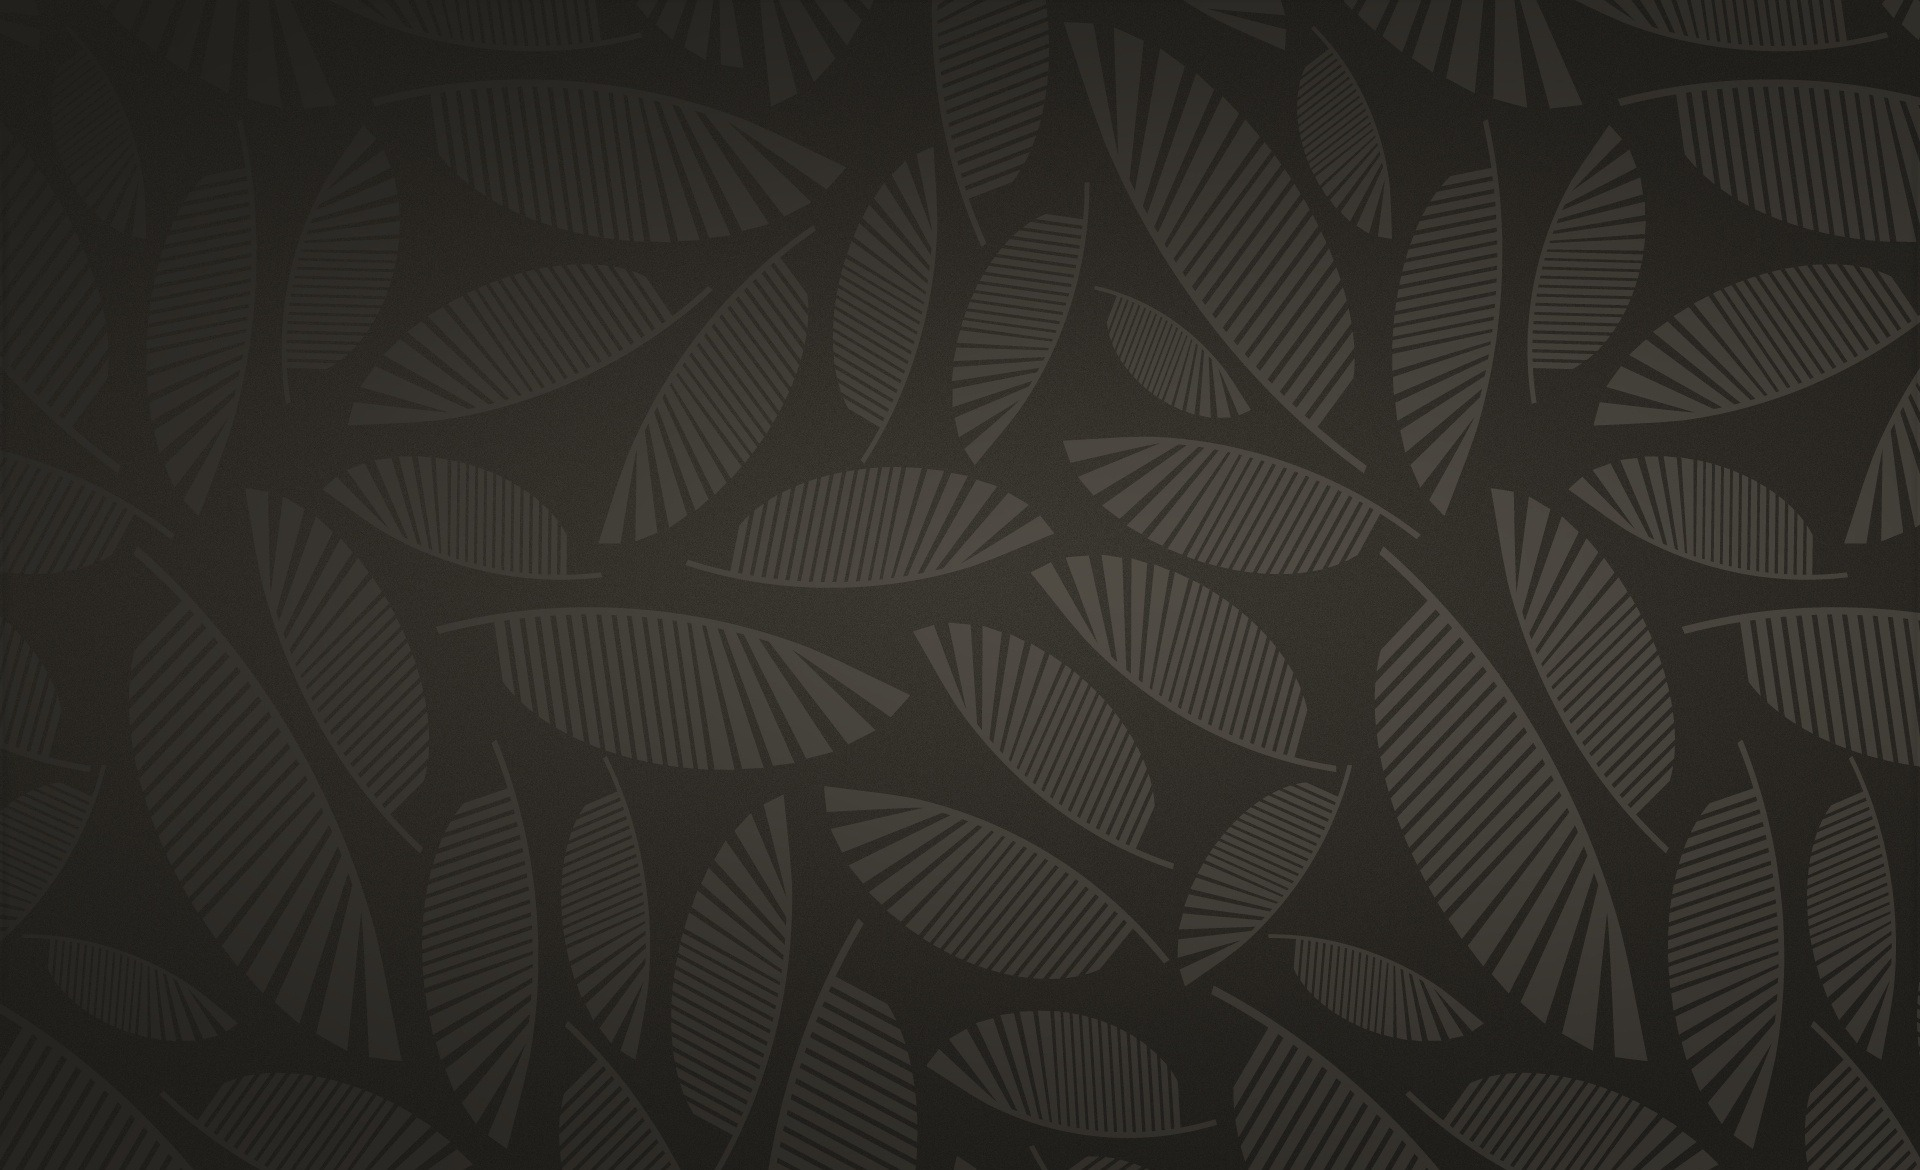
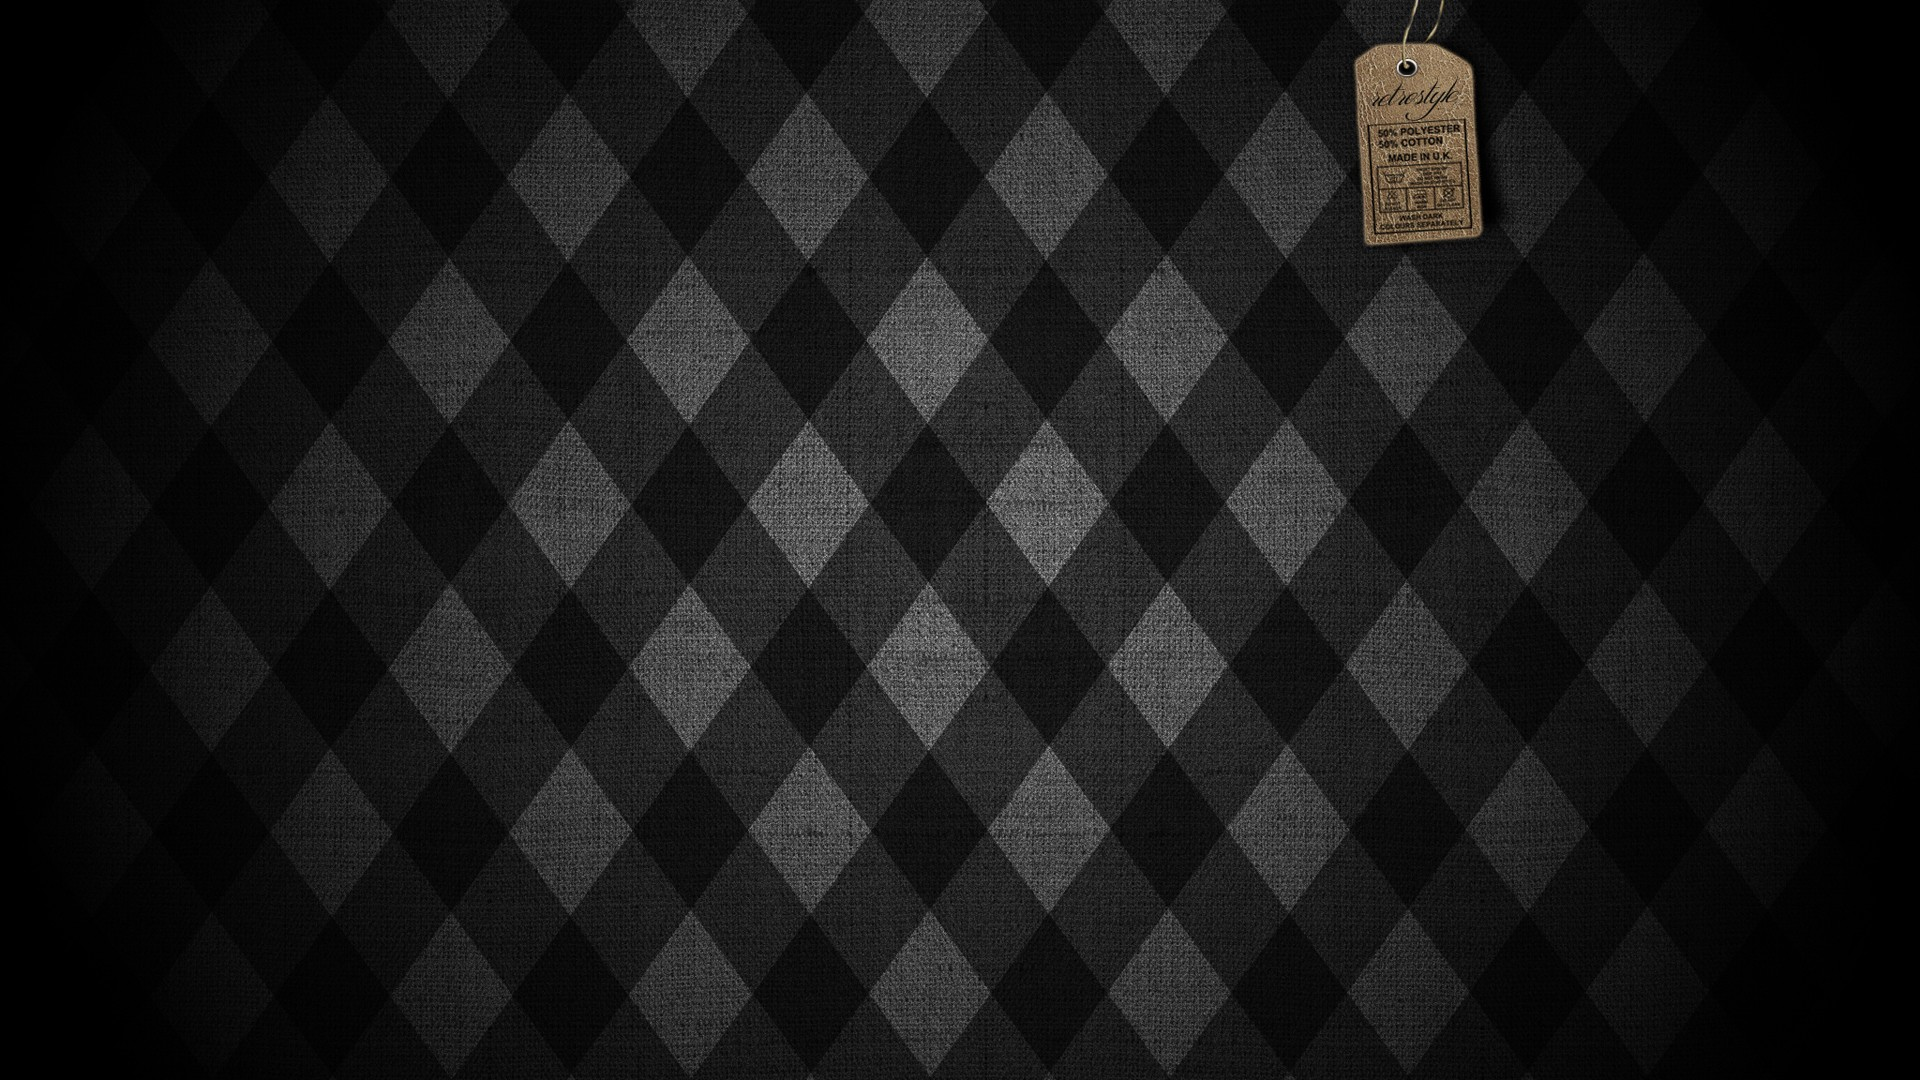
up

diff --git a/wk2_edwards_sean/services.html b/wk2_edwards_sean/services.html
@@ -25,7 +25,7 @@
 </nav>
 <div id="mainct">
 
-<h1 class="text-center">Services & Pricing</h1>
+<h1 class="pink">Services & Pricing</h1>
 
 <div id="row">
 <h5 class="text-center">we offer a wide range of Services for him and her. Color, cuts, styling, extensions and more. Cuts starting at $25 for Women and $15 for Men.contact me today to set up your appointment.</h5>
@@ -38,31 +38,31 @@
   <div class="row">
     <div class="col-md-2">
       <a href="img/jumbo1.jpg" class="thumbnail">
-        <img src="img/jumbo1.jpg" alt="Pulpit Rock" style="width:150px;height:150px">
+        <img src="img/jumbo1.jpg" alt="" style="width:150px;height:150px">
         <p class="text-center">salon view</p>    
       </a>
     </div>
     <div class="col-md-2">
       <a href="img/jumbo2.jpg" class="thumbnail">
-        <img src="img/jumbo2.jpg" alt="Pulpit Rock" style="width:150px;height:150px">
+        <img src="img/jumbo2.jpg" alt="" style="width:150px;height:150px">
         <p class="text-center">salon view 2</p>    
       </a>
     </div>
     <div class="col-md-2">
       <a href="img/hair1.jpg" class="thumbnail">
-        <img src="img/hair1.jpg" alt="Moustiers Sainte Marie" style="width:150px;height:150px">
+        <img src="img/hair1.jpg" alt="" style="width:150px;height:150px">
         <p class="text-center">One very happy client.</p>
       </a>
     </div>
     <div class="col-md-2">
-      <img src="img/hair2.jpg" alt="Cinque Terre" style="width:150px;height:150px">
       <a href="img/hair2.jpg" class="thumbnail">
+      <img src="img/hair2.jpg" alt="" style="width:150px;height:150px">
         <p class="text-center">angle 2</p>      
       </a>
     </div>
     <div class="col-md-2">
       <a href="img/hair3.jpg" class="thumbnail">
-        <img src="img/hair3.jpg" alt="Cinque Terre" style="width:150px;height:150px">
+        <img src="img/hair3.jpg" alt="" style="width:150px;height:150px">
         <p class="text-center">angle 3</p>      
       </a>
     </div>
@@ -70,31 +70,31 @@
   <div class="row">
     <div class="col-md-2">
       <a href="img/color1.jpg" class="thumbnail">      
-        <img src="img/color1.jpg" alt="Cinque Terre" style="width:150px;height:150px">
+        <img src="img/color1.jpg" alt="" style="width:150px;height:150px">
         <p class="text-center">pravana color line</p>
       </a>
     </div>
 <div class="col-md-2">
       <a href="img/redkin.jpg" class="thumbnail">      
-        <img src="img/redkin.jpg" alt="Cinque Terre" style="width:150px;height:150px">
+        <img src="img/redkin.jpg" alt="" style="width:150px;height:150px">
         <p class="text-center">redken shampoo line</p>
       </a>
     </div>
     <div class="col-md-2">
       <a href="img/paul.jpg" class="thumbnail">
-        <img src="img/paul.jpg" alt="Cinque Terre" style="width:150px;height:150px">
+        <img src="img/paul.jpg" alt="" style="width:150px;height:150px">
         <p class="text-center">Paul mitchell line</p>      
       </a>
     </div>
 <div class="col-md-2">
       <a href="img/chi.jpg" class="thumbnail">
-        <img src="img/chi.jpg" alt="Cinque Terre" style="width:150px;height:150px">
+        <img src="img/chi.jpg" alt="" style="width:150px;height:150px">
         <p class="text-center">chi product line</p>      
       </a>
     </div>
 <div class="col-md-2">
       <a href="img/nevo.png" class="thumbnail">
-        <img src="img/nevo.png" alt="Cinque Terre" style="width:150px;height:150px">
+        <img src="img/nevo.png" alt="" style="width:150px;height:150px">
         <p class="text-center">pravana color line</p>      
       </a>
     </div>
@@ -102,7 +102,7 @@
 </div>
 
 <hr>
-  <h1 class="text-center">💕PRICES</h1> 
+  <h1 class="pink">💕PRICES</h1> 
 <p class="text-center">color/Virgin application: long: 45</p>
 <p class="text-center">Color/Virgin application: short: 35-40</p>
 <p class="text-center">Color retouch: 35-40</p>
@@ -120,7 +120,7 @@
 <p class="text-center">Color only : 6 for one foil</p>
 <p class="text-center">Shadow: 15</p>
 
-<h3 class="text-center">SPECIALS:</h3>
+<h3 class="pink">SPECIALS:</h3>
 <p class="text-center">Blow dry add on: 9-10 dollars</p>
 <p class="text-center">Blow dry style: 23 and up</p>
 <p class="text-center">Flat iron style: short: 23</p>
@@ -137,9 +137,17 @@
 <p class="text-center">Woman 23 and up</p>
 <p class="text-center">Trim: 12</p>
   <hr>
+<div id="follow" class="text-center">
+    <p>Follow Me</p>
+    <a href="https://www.facebook.com" target="_blank"><img src="img/48x48/fb.png" alt=""></a>
+    <a href="https://twitter.com" target="_blank"><img src="img/48x48/twitter.png" alt=""></a>
+    <a href="https://instagram.com" target="_blank"><img src="img/48x48/instagram.png" alt=""></a>
+    <a href="https://www.pinterest.com/" target="_blank"><img src="img/48x48/pinterest.png" alt=""></a>       
+  </div> 
   <div id="footer">
  	  <p class="text-center"><a href="">ElyseStyles&copy;</a><p>
   </div>
+</div>
 </div>
 </body>
 </html>

diff --git a/wk2_edwards_sean/index.html b/wk2_edwards_sean/index.html
@@ -8,7 +8,6 @@
 <link href="css/mystyle.css" rel="stylesheet">
 </head>
 <body>
-
 <nav class="navbar navbar-inverse navbar-fixed-top" role="navigation">
   <div class="container-fluid">
     <div class="navbar-header">
@@ -17,7 +16,7 @@
     <div>
       <ul class="nav navbar-nav navbar-right">
         <li><a href="index.html"><span class="glyphicon glyphicon-home"></span> Home</a></li>
-        <li><a href="about.html"><span class="glyphicon glyphicon-user"></span>About</a></li>
+            <li><a href="about.html"><span class="glyphicon glyphicon-user"></span>About</a></li>
         <li><a href="services.html"><span class="glyphicon glyphicon-scissors"></span>Services</a></li>
         <li><a href="contact.html"><span class="glyphicon glyphicon-inbox"></span> Contact</a></li>
       </ul>
@@ -25,25 +24,14 @@
   </div>
 </nav>
 <div id="mainct">
-
 <div class="jumbotron">
-  <h1 class="text-center">Welcome</h1> 
-  <p class="text-center">Elyse Styles is devoted to bringing the latest in fashion and hair</p> 
-  <div class="text-center">
-    	<button type="button" class="btn btn-primary btn-md">Read more</button>
-  </div>
-</div>
-<hr>
+	<h1 id="welcome">Welcome</h1> 
+	  <p >Elyse Styles is devoted to bringing the latest in fashion and hair...<a href="services.html"><button type="button" class="btn btn-primary btn-md">Read more</button></a></p>     
 
-<div class="row">
-	<div class="col-lg-12 col-centered">
-		<div class="row text-center">
-			<img src="img/hairart.jpg" class="img-thumbnail" alt="about" width="304" height="236">
-		</div>
-	<h3 class="text-center"> Colors &amp; Cuts </h3>
-	<p class="text-center"></p>							
-	</div>
 </div>
+<div class="container">
+</div>
+
 <hr>
 <div id="bottom">
 <div class="row">
@@ -65,23 +53,29 @@
   </div>
 </div>
 <hr>
-<div id="follow" class="text-center">
- 		<p>Follow us!</p>
- 		<a href=""><img src="img/48x48/twitter.png"></a>
- 		<a href=""><img src="img/48x48/instagram.png"></a>
- 		<a href=""><img src="img/48x48/fb.png"></a>
- 		<a href=""><img src="img/48x48/pinterest.png"></a>	    	
-	</div> 
+<div class="row">
+	<div class="col-lg-12 col-centered">
+		<div class="row text-center">
+			<a href="services.html"><img src="img/hairart.jpg" class="img-thumbnail" alt="about" width="304" height="236"></a>
+		</div>
+	<a href="services.html"><h3 class="text-center">Gallery</h3></a>
+	<p class="text-center"></p>							
+	</div>
+</div>
 <hr>
+<div id="follow" class="text-center">
+ 		<p>Follow Me</p>
+ 		<a href="https://www.facebook.com" target="_blank"><img src="img/48x48/fb.png" alt=""></a>
+ 		<a href="https://twitter.com" target="_blank"><img src="img/48x48/twitter.png" alt=""></a>
+ 		<a href="https://instagram.com" target="_blank"><img src="img/48x48/instagram.png" alt=""></a>
+ 		<a href="https://www.pinterest.com/" target="_blank"><img src="img/48x48/pinterest.png" alt=""></a>	    	
+	</div> 
+
  <div id="footer">
  	<p class="text-center"><a href="">ElyseStyles&copy;</a><p>
  </div>
 </div>	
-<div>
-	<script src="http://code.jquery.com/jquery.js"></script>
-    <script src="js/boot
-</div>
- <!-- jQuery (necessary for Bootstrap's JavaScript plugins) -->
+<!-- jQuery (necessary for Bootstrap's JavaScript plugins) -->
     <script src="https://ajax.googleapis.com/ajax/libs/jquery/1.11.2/jquery.min.js"></script>
     <!-- Include all compiled plugins (below), or include individual files as needed -->
     <script src="js/bootstrap.min.js"></script>

diff --git a/wk2_edwards_sean/contact.html b/wk2_edwards_sean/contact.html
@@ -25,10 +25,39 @@
 </nav>
 <div id="mainct">
 
-	 <div id="footer">
-
- 	<p class="text-center"><a href="">ElyseStyles&copy;</a><p>
- </div>
+<h2 class="pink">Schedule your appointment today</h2>
+<div id="contact">
+  <form role="form">
+    <div class="form-group">
+      <label for="name">Name</label>
+      <input type="text" class="form-control" id="name" placeholder="*required" required>
+    </div>
+<div class="form-group">
+      <label for="phone">Phone number</label>
+      <input type="text" class="form-control" id="phone" placeholder="*required" required>
+    </div>
+<div class="form-group">
+      <label for="email">Email</label>
+      <input type="email" class="form-control" id="email" placeholder="Enter email">
+    </div>
+    <div class="form-group">
+      <label for="cmts">comments</label>
+      <textarea class="form-control" id="cmts" placeholder=".."></textarea>
+    </div>
+    <button type="submit" class="btn btn-primary btn-md">Submit</button>
+  </form>
+  </div>
+<hr>
+<div id="follow" class="text-center">
+ 		<p>Follow Me</p>
+ 		<a href="https://www.facebook.com" target="_blank"><img src="img/48x48/fb.png" alt=""></a>
+ 		<a href="https://twitter.com" target="_blank"><img src="img/48x48/twitter.png" alt=""></a>
+ 		<a href="https://instagram.com" target="_blank"><img src="img/48x48/instagram.png" alt=""></a>
+ 		<a href="https://www.pinterest.com/" target="_blank"><img src="img/48x48/pinterest.png" alt=""></a>	    	
+	</div> 
+	<div id="footer">
+ 		<p class="text-center"><a href="">ElyseStyles&copy;</a><p>
 	</div>
+</div>
 </body>
 </html>

diff --git a/wk2_edwards_sean/about.html b/wk2_edwards_sean/about.html
@@ -24,10 +24,18 @@
   </div>
 </nav>
 <div id="mainct">
-
-<p class="text-center"><img src="img/p28.jpg" class="img-thumbnail" width="204" height="204"></p>Nexi Santiago graduated from cosmetology school in the fall of 2014.she is a licensed cosmetologist currently working at cherry blowdry bar in the winter springs area
+ <div id="about">
+<p class="text-center"><img src="img/p28.jpg" class="img-thumbnail" width="204" height="204" alt=""></p>
+<h5 class="col-md-11">Nexi Santiago graduated from cosmetology school in the fall of 2014.she is a licensed cosmetologist currently working at cherry blowdry bar in the winter springs area.</h5>
+</div>
+<div id="follow" class="text-center">
+    <p>Follow Me</p>
+    <a href="https://www.facebook.com" target="_blank"><img src="img/48x48/fb.png" alt=""></a>
+    <a href="https://twitter.com" target="_blank"><img src="img/48x48/twitter.png" alt=""></a>
+    <a href="https://instagram.com" target="_blank"><img src="img/48x48/instagram.png" alt=""></a>
+    <a href="https://www.pinterest.com/" target="_blank"><img src="img/48x48/pinterest.png" alt=""></a>       
+  </div> 
 	 <div id="footer">
-
  	<p class="text-center"><a href="">ElyseStyles&copy;</a><p>
  </div>
 	</div>

diff --git a/wk2_edwards_sean/css/mystyle.css b/wk2_edwards_sean/css/mystyle.css
@@ -11,21 +11,38 @@ html {
       -ms-text-size-adjust: 100%;
 }
 body {
-  padding-top: 70px;
+  padding-top:70px;
   margin: 0;
-    background-image:url("../img/bk.jpg"); 
+    background-image:url("../img/bk.png"); 
     margin-bottom: 30px;
 
 }
 
 #mainct{
-  overflow: hidden;
   margin: 0 auto;
-width: 75%;
+width: 85%;
   background-color: white;
   border: 2px solid black;
   -webkit-box-shadow: 0 0 10px black;
   box-shadow: 0 0 10px 
+}
+
+#contact{
+  margin: 0 auto;
+width: 65%;
+}
+#about{
+  margin-top: 25px;
+  overflow: auto;
+
+}
+.pink{
+  color: #ff0080;
+  text-align:center;
+}
+
+#welcome{
+  color: #ff0080;
 }
 
 #bottom{
@@ -38,7 +55,8 @@ width: 75%;
   margin: 0 auto;
 }
 
-#serv{
+#follow{
+  margin-bottom: 25px;
 }
 
 #footer{
@@ -87,6 +105,7 @@ template {
 }
 a {
   background-color: transparent;
+    text-decoration: none;
 }
 a:active,
 a:hover {
@@ -4911,7 +4930,7 @@ a.badge:focus {
   background-color: #eee;
   background-image:url("../img/jumbo.jpg");
   background-size: cover;
-  color: white;
+  color:white;
 
 }
 .jumbotron h1,
